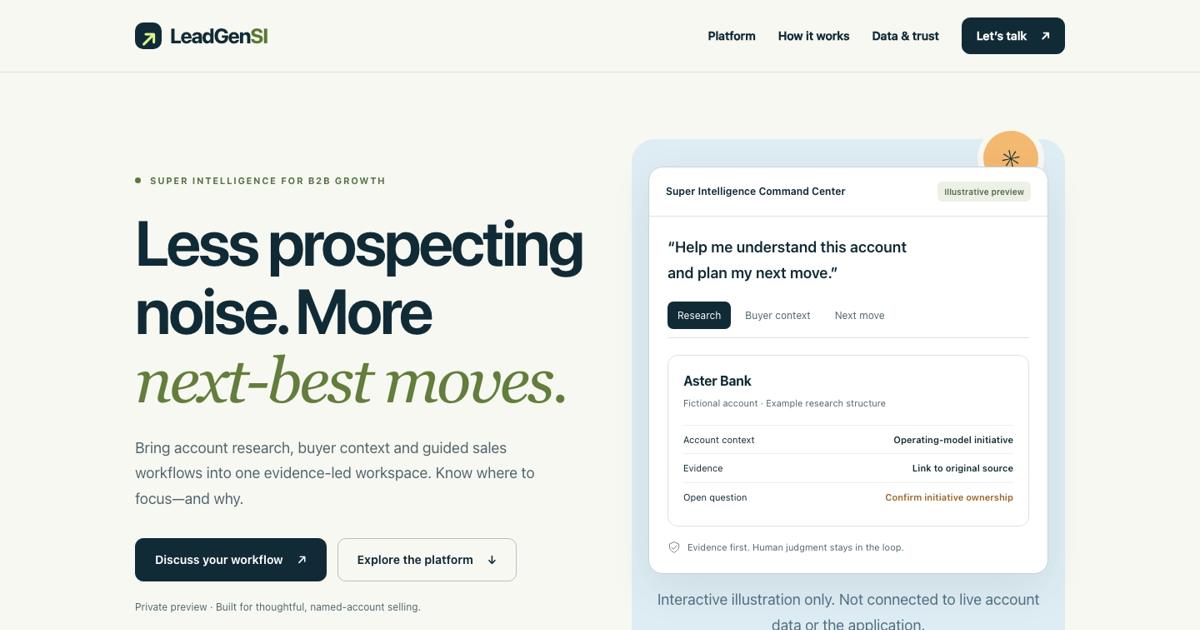
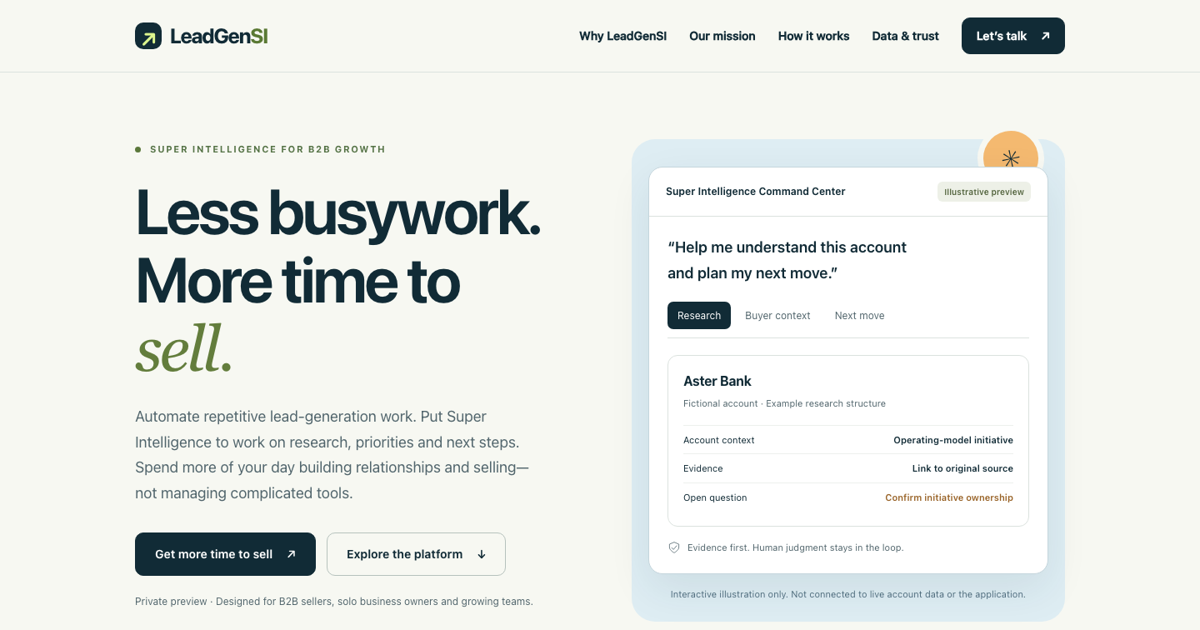
feat: center website on seller pain points, mission and values

diff --git a/index.html b/index.html
@@ -3,7 +3,7 @@
 <head>
 <meta charset="utf-8">
 <meta name="viewport" content="width=device-width,initial-scale=1">
-<meta name="description" content="LeadGenSI brings account research, buyer context and guided sales workflows into one evidence-led workspace. Super Intelligence for B2B growth.">
+<meta name="description" content="Automate repetitive lead-generation work, put Super Intelligence to work on selling, and get full-team leverage without complicated tools.">
 <meta name="theme-color" content="#112b36">
 <meta property="og:type" content="website">
 <link rel="canonical" href="https://cjwalsh22.github.io/leadgensi-website/">
@@ -13,12 +13,13 @@
 <meta property="og:image:height" content="630">
 <meta property="og:image:alt" content="LeadGenSI — Super Intelligence for B2B Growth product overview">
 <meta property="og:title" content="LeadGenSI — Super Intelligence for B2B Growth">
-<meta property="og:description" content="Know where to focus. Understand the buyer. Make your next move with evidence.">
+<meta property="og:description" content="Less busywork. Powerful Super Intelligence. More time to sell—with a simpler experience for any B2B seller.">
 <meta name="twitter:card" content="summary">
 <meta http-equiv="Content-Security-Policy" content="default-src 'none'; img-src 'self' data:; style-src 'unsafe-inline'; script-src 'sha256-vNd4mpZ85vo6gcTxOHxrZxz+LenrLUhy0onV7V+zaiw='; connect-src 'none'; base-uri 'none'; form-action 'none'">
 <title>LeadGenSI — Super Intelligence for B2B Growth</title>
 <style>
-:root{--ink:#112b36;--muted:#52666d;--paper:#f7f8f2;--white:#fff;--line:#dbe2de;--lime:#dcf58e;--blue:#deedf3;--orange:#f4b970;--radius:20px;--max:1180px}*{box-sizing:border-box}html{scroll-behavior:smooth;scroll-padding-top:100px}body{margin:0;background:var(--paper);color:var(--ink);font-family:Inter,-apple-system,BlinkMacSystemFont,"Segoe UI",sans-serif;line-height:1.6;-webkit-font-smoothing:antialiased}a{color:inherit}button{font:inherit;cursor:pointer}button,a{-webkit-tap-highlight-color:transparent}a:focus-visible,button:focus-visible,summary:focus-visible{outline:3px solid #237aa1;outline-offset:5px}h1,h2,h3,p{margin-top:0}h1,h2,h3{line-height:1.08;letter-spacing:-.04em}h1{font-size:clamp(45px,5.5vw,76px);font-weight:650;margin-bottom:25px}h2{font-size:clamp(34px,4vw,51px);font-weight:600;margin-bottom:22px}h3{font-size:23px;font-weight:600;letter-spacing:-.025em}p{color:var(--muted)}.wrap{max-width:var(--max);padding:0 32px;margin:auto}.skip{position:absolute;left:12px;top:-80px;background:var(--lime);padding:12px;z-index:10}.skip:focus{top:12px}.nav-shell{position:sticky;top:0;z-index:5;background:rgba(247,248,242,.97);border-bottom:1px solid var(--line)}.nav{display:flex;align-items:center;justify-content:space-between;min-height:86px;gap:28px}.brand{text-decoration:none;font-size:25px;font-weight:750;letter-spacing:-1.3px;display:inline-flex;align-items:center;gap:10px}.brand em{font-style:normal;color:#5a7933}.brand-mark{width:32px;height:32px;background:var(--ink);border-radius:10px;display:grid;place-items:center;color:var(--lime)}.nav-links{display:flex;gap:27px;align-items:center}.nav-links>a{text-decoration:none;font-size:14px;font-weight:550}.nav-links>a:hover{color:#587437}.nav-toggle{display:none;border:1px solid var(--line);background:transparent;padding:7px 13px;border-radius:9px}.btn{display:inline-flex;align-items:center;justify-content:center;gap:17px;padding:14px 23px;border:1px solid var(--ink);border-radius:10px;text-decoration:none;font-size:14px;font-weight:650;background:var(--ink);color:white;transition:transform .18s,background .18s}.btn:hover{transform:translateY(-2px);background:#224956}.btn.light{color:var(--ink);background:transparent;border-color:#b6c2bd}.btn.lime{background:var(--lime);color:var(--ink);border-color:var(--lime)}.nav .btn{padding:10px 17px}.hero{padding:80px 0 62px;display:grid;grid-template-columns:1.04fr 1fr;align-items:center;gap:55px}.eyebrow{font-size:11px;letter-spacing:.15em;font-weight:700;text-transform:uppercase;color:#557346;margin-bottom:24px;display:flex;gap:11px;align-items:center}.dot{height:7px;width:7px;background:#5b783b;border-radius:50%;display:inline-block}.hero p{font-size:18px;max-width:485px;line-height:1.7}.serif{font-family:Georgia,"Times New Roman",serif;font-style:italic;font-weight:450;color:#637d3c}.actions{display:flex;flex-wrap:wrap;gap:13px;margin:31px 0 21px}.fine{font-size:12px!important;line-height:1.6!important}.preview-shell{position:relative;background:var(--blue);border-radius:28px;padding:33px 20px 25px;min-width:0}.orbit{position:absolute;right:25px;top:-17px;background:var(--orange);width:80px;height:80px;border-radius:50%;display:grid;place-items:center;font-size:30px;transform:rotate(-12deg);border:7px solid var(--paper)}.workspace{position:relative;background:white;border:1px solid #c4d5dc;border-radius:17px;box-shadow:0 18px 50px #14364516;overflow:hidden}.workspace-top{padding:17px 20px;border-bottom:1px solid var(--line);display:flex;align-items:center;justify-content:space-between;font-size:12px;font-weight:650}.badge{font-size:10px;font-weight:600;padding:4px 8px;border-radius:6px;background:#edf0e7;color:#54653f;white-space:nowrap}.preview-body{padding:22px}.prompt{font-size:15px;font-weight:600;color:var(--ink);margin-bottom:19px;line-height:1.5}.tabs{display:flex;gap:5px;margin-bottom:20px;border-bottom:1px solid var(--line);padding-bottom:10px}.tab{border:0;background:transparent;padding:7px 12px;font-size:12px;border-radius:7px;color:var(--muted)}.tab[aria-selected=true]{background:var(--ink);color:white}.sample-card{border:1px solid var(--line);border-radius:12px;padding:18px;min-height:186px}.sample-title{font-size:16px;font-weight:700;letter-spacing:-.02em;margin-bottom:4px}.sample-sub{font-size:11px;color:var(--muted);margin-bottom:17px}.sample-row{display:flex;justify-content:space-between;gap:14px;padding:8px 0;border-top:1px solid #edf0ed;font-size:11px}.sample-row strong{font-weight:600;text-align:right}.sample-row .pending{color:#986226}.activity{display:flex;align-items:center;gap:8px;margin-top:16px;font-size:11px;color:var(--muted)}.activity svg{flex-shrink:0}.illustrative{font-size:10px;text-align:center;line-height:1.5;margin:16px 0 0;color:#537080}.promise-strip{display:flex;justify-content:space-between;gap:20px;flex-wrap:wrap;border-top:1px solid var(--line);border-bottom:1px solid var(--line);padding:22px 0;font-size:12px;font-weight:550}.promise-strip span{display:flex;gap:9px;align-items:center}.promise-strip b{color:#658743;font-size:17px}.section{padding:91px 0}.section-head{max-width:690px;margin-bottom:42px}.section-head>p{font-size:17px;max-width:620px}.cap-grid{display:grid;grid-template-columns:repeat(3,1fr);gap:19px}.cap{border:1px solid var(--line);background:#fff;padding:30px;border-radius:var(--radius)}.cap-icon{height:45px;width:45px;display:grid;place-items:center;border-radius:13px;background:var(--blue);font-size:21px;margin-bottom:28px}.cap:nth-child(2) .cap-icon{background:#edf3dd}.cap:nth-child(3) .cap-icon{background:#fae7d1}.cap p{font-size:14px;margin-bottom:0}.workflow-section{background:var(--ink);color:white}.workflow-section .eyebrow{color:var(--lime)}.workflow-section p{color:#b3c4ca}.workflow-grid{display:grid;grid-template-columns:repeat(4,1fr);gap:29px}.step{border-top:1px solid #4b6068;padding-top:22px}.step-number{font-size:12px;letter-spacing:.06em;color:var(--lime);margin-bottom:26px}.step h3{font-size:21px;letter-spacing:-.02em}.step p{font-size:14px}.workflow-note{border-top:1px solid #4b6068;padding-top:22px;margin-top:32px;margin-bottom:0;font-size:12px!important}.trust-grid{display:grid;grid-template-columns:1fr 1fr;gap:64px;align-items:start}.principles{padding:0;list-style:none;margin:0}.principles li{padding:18px 0;border-bottom:1px solid var(--line)}.principles li:first-child{padding-top:0}.principles strong{display:block;margin-bottom:5px;font-size:16px;letter-spacing:-.02em}.principles p{font-size:14px;margin:0}.modes{margin-top:28px;background:#eaf0e2;padding:21px 23px;border-radius:13px}.modes strong{font-size:13px;display:block;margin-bottom:7px}.modes p{font-size:12px;margin:0}.faq-section{padding-top:0}.faq-grid{display:grid;grid-template-columns:.8fr 1.2fr;gap:60px}details{border-bottom:1px solid var(--line);padding:19px 0}details:first-child{padding-top:0}summary{cursor:pointer;font-size:16px;font-weight:600;list-style:none;padding-right:26px;position:relative}summary::-webkit-details-marker{display:none}summary:after{content:'+';position:absolute;right:0;top:-3px;font-size:24px;font-weight:400}details[open] summary:after{content:'−'}details p{font-size:14px;margin:13px 26px 0 0}.contact{background:var(--blue);border-radius:25px;padding:47px 52px;display:flex;align-items:center;justify-content:space-between;gap:35px;margin-bottom:65px}.contact h2{font-size:38px;max-width:570px;margin-bottom:13px}.contact p{font-size:15px;max-width:590px;margin:0}.contact .btn{flex-shrink:0}.footer{border-top:1px solid var(--line);padding:29px 0}.footer-inner{display:flex;justify-content:space-between;align-items:center;gap:20px;flex-wrap:wrap}.footer .brand{font-size:20px}.footer-links{display:flex;align-items:center;gap:20px;font-size:12px;color:var(--muted)}.text-button{background:none;border:0;padding:0;color:inherit;text-decoration:underline;font-size:12px}.footer-note{font-size:11px;margin:16px 0 0;max-width:850px}.dialog{width:min(580px,calc(100% - 36px));border:1px solid var(--line);border-radius:20px;padding:33px;color:var(--ink);background:var(--paper);max-height:85vh;overflow:auto}.dialog::backdrop{background:#112b3699}.dialog h2{font-size:28px}.dialog p{font-size:14px}.dialog .btn{margin-top:9px}.sr-only{position:absolute;width:1px;height:1px;padding:0;margin:-1px;overflow:hidden;clip:rect(0,0,0,0);white-space:nowrap;border:0}[hidden]{display:none!important}
+:root{--ink:#112b36;--muted:#52666d;--paper:#f7f8f2;--white:#fff;--line:#dbe2de;--lime:#dcf58e;--blue:#deedf3;--orange:#f4b970;--radius:20px;--max:1180px}*{box-sizing:border-box}html{scroll-behavior:smooth;scroll-padding-top:100px}body{margin:0;background:var(--paper);color:var(--ink);font-family:Inter,-apple-system,BlinkMacSystemFont,"Segoe UI",sans-serif;line-height:1.6;-webkit-font-smoothing:antialiased}a{color:inherit}button{font:inherit;cursor:pointer}button,a{-webkit-tap-highlight-color:transparent}a:focus-visible,button:focus-visible,summary:focus-visible{outline:3px solid #237aa1;outline-offset:5px}h1,h2,h3,p{margin-top:0}h1,h2,h3{line-height:1.08;letter-spacing:-.04em}h1{font-size:clamp(45px,5.5vw,76px);font-weight:650;margin-bottom:25px}h2{font-size:clamp(34px,4vw,51px);font-weight:600;margin-bottom:22px}h3{font-size:23px;font-weight:600;letter-spacing:-.025em}p{color:var(--muted)}.wrap{max-width:var(--max);padding:0 32px;margin:auto}.skip{position:absolute;left:12px;top:-80px;background:var(--lime);padding:12px;z-index:10}.skip:focus{top:12px}.nav-shell{position:sticky;top:0;z-index:5;background:rgba(247,248,242,.97);border-bottom:1px solid var(--line)}.nav{display:flex;align-items:center;justify-content:space-between;min-height:86px;gap:28px}.brand{text-decoration:none;font-size:25px;font-weight:750;letter-spacing:-1.3px;display:inline-flex;align-items:center;gap:10px}.brand em{font-style:normal;color:#5a7933}.brand-mark{width:32px;height:32px;background:var(--ink);border-radius:10px;display:grid;place-items:center;color:var(--lime)}.nav-links{display:flex;gap:27px;align-items:center}.nav-links>a{text-decoration:none;font-size:14px;font-weight:550}.nav-links>a:hover{color:#587437}.nav-toggle{display:none;border:1px solid var(--line);background:transparent;padding:7px 13px;border-radius:9px}.btn{display:inline-flex;align-items:center;justify-content:center;gap:17px;padding:14px 23px;border:1px solid var(--ink);border-radius:10px;text-decoration:none;font-size:14px;font-weight:650;background:var(--ink);color:white;transition:transform .18s,background .18s}.btn:hover{transform:translateY(-2px);background:#224956}.btn.light{color:var(--ink);background:transparent;border-color:#b6c2bd}.btn.lime{background:var(--lime);color:var(--ink);border-color:var(--lime)}.nav .btn{padding:10px 17px}.hero{padding:80px 0 62px;display:grid;grid-template-columns:1.04fr 1fr;align-items:center;gap:55px}.eyebrow{font-size:11px;letter-spacing:.15em;font-weight:700;text-transform:uppercase;color:#557346;margin-bottom:24px;display:flex;gap:11px;align-items:center}.dot{height:7px;width:7px;background:#5b783b;border-radius:50%;display:inline-block}.hero p{font-size:18px;max-width:485px;line-height:1.7}.serif{font-family:Georgia,"Times New Roman",serif;font-style:italic;font-weight:450;color:#637d3c}.actions{display:flex;flex-wrap:wrap;gap:13px;margin:31px 0 21px}.fine{font-size:12px!important;line-height:1.6!important}.preview-shell{position:relative;background:var(--blue);border-radius:28px;padding:33px 20px 25px;min-width:0}.orbit{position:absolute;right:25px;top:-17px;background:var(--orange);width:80px;height:80px;border-radius:50%;display:grid;place-items:center;font-size:30px;transform:rotate(-12deg);border:7px solid var(--paper)}.workspace{position:relative;background:white;border:1px solid #c4d5dc;border-radius:17px;box-shadow:0 18px 50px #14364516;overflow:hidden}.workspace-top{padding:17px 20px;border-bottom:1px solid var(--line);display:flex;align-items:center;justify-content:space-between;font-size:12px;font-weight:650}.badge{font-size:10px;font-weight:600;padding:4px 8px;border-radius:6px;background:#edf0e7;color:#54653f;white-space:nowrap}.preview-body{padding:22px}.prompt{font-size:15px;font-weight:600;color:var(--ink);margin-bottom:19px;line-height:1.5}.tabs{display:flex;gap:5px;margin-bottom:20px;border-bottom:1px solid var(--line);padding-bottom:10px}.tab{border:0;background:transparent;padding:7px 12px;font-size:12px;border-radius:7px;color:var(--muted)}.tab[aria-selected=true]{background:var(--ink);color:white}.sample-card{border:1px solid var(--line);border-radius:12px;padding:18px;min-height:186px}.sample-title{font-size:16px;font-weight:700;letter-spacing:-.02em;margin-bottom:4px}.sample-sub{font-size:11px;color:var(--muted);margin-bottom:17px}.sample-row{display:flex;justify-content:space-between;gap:14px;padding:8px 0;border-top:1px solid #edf0ed;font-size:11px}.sample-row strong{font-weight:600;text-align:right}.sample-row .pending{color:#986226}.activity{display:flex;align-items:center;gap:8px;margin-top:16px;font-size:11px;color:var(--muted)}.activity svg{flex-shrink:0}.hero .illustrative{font-size:11px;text-align:center;line-height:1.5;margin:16px 0 0;color:#537080}.promise-strip{display:flex;justify-content:space-between;gap:20px;flex-wrap:wrap;border-top:1px solid var(--line);border-bottom:1px solid var(--line);padding:22px 0;font-size:12px;font-weight:550}.promise-strip span{display:flex;gap:9px;align-items:center}.promise-strip b{color:#658743;font-size:17px}.section{padding:91px 0}.section-head{max-width:690px;margin-bottom:42px}.section-head>p{font-size:17px;max-width:620px}.cap-grid{display:grid;grid-template-columns:repeat(3,1fr);gap:19px}.cap{border:1px solid var(--line);background:#fff;padding:30px;border-radius:var(--radius)}.cap-icon{height:45px;width:45px;display:grid;place-items:center;border-radius:13px;background:var(--blue);font-size:21px;margin-bottom:28px}.cap:nth-child(2) .cap-icon{background:#edf3dd}.cap:nth-child(3) .cap-icon{background:#fae7d1}.cap p{font-size:14px;margin-bottom:0}.workflow-section{background:var(--ink);color:white}.workflow-section .eyebrow{color:var(--lime)}.workflow-section p{color:#b3c4ca}.workflow-grid{display:grid;grid-template-columns:repeat(4,1fr);gap:29px}.step{border-top:1px solid #4b6068;padding-top:22px}.step-number{font-size:12px;letter-spacing:.06em;color:var(--lime);margin-bottom:26px}.step h3{font-size:21px;letter-spacing:-.02em}.step p{font-size:14px}.workflow-note{border-top:1px solid #4b6068;padding-top:22px;margin-top:32px;margin-bottom:0;font-size:12px!important}.trust-grid{display:grid;grid-template-columns:1fr 1fr;gap:64px;align-items:start}.principles{padding:0;list-style:none;margin:0}.principles li{padding:18px 0;border-bottom:1px solid var(--line)}.principles li:first-child{padding-top:0}.principles strong{display:block;margin-bottom:5px;font-size:16px;letter-spacing:-.02em}.principles p{font-size:14px;margin:0}.modes{margin-top:28px;background:#eaf0e2;padding:21px 23px;border-radius:13px}.modes strong{font-size:13px;display:block;margin-bottom:7px}.modes p{font-size:12px;margin:0}.faq-section{padding-top:0}.faq-grid{display:grid;grid-template-columns:.8fr 1.2fr;gap:60px}details{border-bottom:1px solid var(--line);padding:19px 0}details:first-child{padding-top:0}summary{cursor:pointer;font-size:16px;font-weight:600;list-style:none;padding-right:26px;position:relative}summary::-webkit-details-marker{display:none}summary:after{content:'+';position:absolute;right:0;top:-3px;font-size:24px;font-weight:400}details[open] summary:after{content:'−'}details p{font-size:14px;margin:13px 26px 0 0}.contact{background:var(--blue);border-radius:25px;padding:47px 52px;display:flex;align-items:center;justify-content:space-between;gap:35px;margin-bottom:65px}.contact h2{font-size:38px;max-width:570px;margin-bottom:13px}.contact p{font-size:15px;max-width:590px;margin:0}.contact .btn{flex-shrink:0}.footer{border-top:1px solid var(--line);padding:29px 0}.footer-inner{display:flex;justify-content:space-between;align-items:center;gap:20px;flex-wrap:wrap}.footer .brand{font-size:20px}.footer-links{display:flex;align-items:center;gap:20px;font-size:12px;color:var(--muted)}.text-button{background:none;border:0;padding:0;color:inherit;text-decoration:underline;font-size:12px}.footer-note{font-size:11px;margin:16px 0 0;max-width:850px}.dialog{width:min(580px,calc(100% - 36px));border:1px solid var(--line);border-radius:20px;padding:33px;color:var(--ink);background:var(--paper);max-height:85vh;overflow:auto}.dialog::backdrop{background:#112b3699}.dialog h2{font-size:28px}.dialog p{font-size:14px}.dialog .btn{margin-top:9px}.sr-only{position:absolute;width:1px;height:1px;padding:0;margin:-1px;overflow:hidden;clip:rect(0,0,0,0);white-space:nowrap;border:0}[hidden]{display:none!important}
+@media(max-width:900px){.nav{min-height:73px}.nav-toggle{display:block}.nav-links{display:none;position:absolute;left:0;right:0;top:73px;background:var(--paper);padding:20px 22px;border-bottom:1px solid var(--line);flex-direction:column;align-items:stretch;gap:20px}.nav-links.open{display:flex}}
 @media(max-width:1000px){.hero{gap:30px}.workflow-grid{grid-template-columns:repeat(2,1fr)}.contact{padding:35px}.cap{padding:24px}.trust-grid{gap:35px}}
 @media(max-width:760px){.wrap{padding:0 22px}.nav{min-height:73px}.nav-toggle{display:block}.nav-links{display:none;position:absolute;left:0;right:0;top:73px;background:var(--paper);padding:20px 22px;border-bottom:1px solid var(--line);flex-direction:column;align-items:stretch;gap:20px}.nav-links.open{display:flex}.hero{grid-template-columns:1fr;padding:47px 0 35px;gap:38px}.hero h1{font-size:clamp(45px,9vw,65px);max-width:570px}.hero p{font-size:17px}.preview-shell{padding:28px 17px 21px}.section{padding:61px 0}.cap-grid{grid-template-columns:1fr}.cap{padding:25px}.cap-icon{margin-bottom:20px}.trust-grid,.faq-grid{grid-template-columns:1fr;gap:27px}.faq-section{padding-top:0}.contact{flex-direction:column;align-items:flex-start;padding:31px 25px;margin-bottom:40px}.contact h2{font-size:32px}.promise-strip{gap:16px;font-size:11px}.footer-inner{align-items:flex-start}.footer-links{flex-wrap:wrap;gap:15px}.workspace-top{padding:15px}.preview-body{padding:17px}.sample-row{font-size:11px}.section-head{margin-bottom:29px}}
 @media(max-width:380px){.workflow-grid{grid-template-columns:1fr}.hero h1{font-size:42px}.sample-row{flex-direction:column;gap:1px}.sample-row strong{text-align:left}.brand{font-size:23px}}
@@ -27,16 +28,17 @@
 </head>
 <body>
 <a class="skip" href="#main">Skip to content</a>
-<header class="nav-shell"><nav class="nav wrap" aria-label="Main navigation"><a class="brand" href="#" aria-label="LeadGenSI home"><span class="brand-mark" aria-hidden="true">↗</span><span>LeadGen<em>SI</em></span></a><button class="nav-toggle" aria-expanded="false" aria-controls="navigation">Menu</button><div id="navigation" class="nav-links"><a href="#platform">Platform</a><a href="#workflow">How it works</a><a href="#trust">Data &amp; trust</a><a href="#contact" class="btn">Let’s talk <span aria-hidden="true">↗</span></a></div></nav></header>
+<header class="nav-shell"><nav class="nav wrap" aria-label="Main navigation"><a class="brand" href="#" aria-label="LeadGenSI home"><span class="brand-mark" aria-hidden="true">↗</span><span>LeadGen<em>SI</em></span></a><button class="nav-toggle" aria-expanded="false" aria-controls="navigation">Menu</button><div id="navigation" class="nav-links"><a href="#platform">Why LeadGenSI</a><a href="#mission">Our mission</a><a href="#workflow">How it works</a><a href="#trust">Data &amp; trust</a><a href="#contact" class="btn">Let’s talk <span aria-hidden="true">↗</span></a></div></nav></header>
 <main id="main">
-<div class="wrap"><section class="hero" aria-labelledby="hero-title"><div><div class="eyebrow"><span class="dot"></span> Super Intelligence for B2B growth</div><h1 id="hero-title">Less prospecting<br>noise. More<br><span class="serif">next-best moves.</span></h1><p>Bring account research, buyer context and guided sales workflows into one evidence-led workspace. Know where to focus—and why.</p><div class="actions"><a class="btn" href="#contact">Discuss your workflow <span aria-hidden="true">↗</span></a><a class="btn light" href="#platform">Explore the platform <span aria-hidden="true">↓</span></a></div><p class="fine">Private preview · Built for thoughtful, named-account selling.</p></div>
+<div class="wrap"><section class="hero" aria-labelledby="hero-title"><div><div class="eyebrow"><span class="dot"></span> Super Intelligence for B2B growth</div><h1 id="hero-title">Less busywork.<br>More time to<br><span class="serif">sell.</span></h1><p>Automate repetitive lead-generation work. Put Super Intelligence to work on research, priorities and next steps. Spend more of your day building relationships and selling—not managing complicated tools.</p><div class="actions"><a class="btn" href="#contact">Get more time to sell <span aria-hidden="true">↗</span></a><a class="btn light" href="#platform">Explore the platform <span aria-hidden="true">↓</span></a></div><p class="fine">Private preview · Designed for B2B sellers, solo business owners and growing teams.</p></div>
 <div class="preview-shell"><div class="orbit" aria-hidden="true">✳</div><div class="workspace"><div class="workspace-top"><span>Super Intelligence Command Center</span><span class="badge">Illustrative preview</span></div><div class="preview-body"><p class="prompt">“Help me understand this account<br>and plan my next move.”</p><div class="tabs" role="tablist" aria-label="Illustrative workflow"><button class="tab" role="tab" id="tab-research" aria-controls="panel-research" aria-selected="true" tabindex="0">Research</button><button class="tab" role="tab" id="tab-buyers" aria-controls="panel-buyers" aria-selected="false" tabindex="-1">Buyer context</button><button class="tab" role="tab" id="tab-action" aria-controls="panel-action" aria-selected="false" tabindex="-1">Next move</button></div><div id="panel-research" class="sample-card" role="tabpanel" aria-labelledby="tab-research"><div class="sample-title">Aster Bank</div><div class="sample-sub">Fictional account · Example research structure</div><div class="sample-row"><span>Account context</span><strong>Operating-model initiative</strong></div><div class="sample-row"><span>Evidence</span><strong>Link to original source</strong></div><div class="sample-row"><span>Open question</span><strong class="pending">Confirm initiative ownership</strong></div></div><div id="panel-buyers" class="sample-card" role="tabpanel" aria-labelledby="tab-buyers" hidden><div class="sample-title">Understand the buying group</div><div class="sample-sub">Illustrative roles—not discovered contacts</div><div class="sample-row"><span>Potential stakeholder</span><strong>Operations leadership</strong></div><div class="sample-row"><span>Current employment</span><strong class="pending">Needs source confirmation</strong></div><div class="sample-row"><span>Email verification</span><strong class="pending">Not established</strong></div></div><div id="panel-action" class="sample-card" role="tabpanel" aria-labelledby="tab-action" hidden><div class="sample-title">Prepare a relevant conversation</div><div class="sample-sub">Illustrative planning—not an executed campaign</div><div class="sample-row"><span>Next step</span><strong>Review the account brief</strong></div><div class="sample-row"><span>Message basis</span><strong>Confirmed account evidence</strong></div><div class="sample-row"><span>External outreach</span><strong class="pending">Requires human approval</strong></div></div><div class="activity"><svg width="16" height="16" viewBox="0 0 20 20" fill="none" aria-hidden="true"><path d="M10 2 3 5v5c0 4 7 8 7 8s7-4 7-8V5l-7-3Z" stroke="currentColor"/><path d="m6 10 3 3 5-6" stroke="currentColor"/></svg>Evidence first. Human judgment stays in the loop.</div></div></div><p class="illustrative">Interactive illustration only. Not connected to live account data or the application.</p></div></section>
-<div class="promise-strip" aria-label="Product principles"><span><b aria-hidden="true">↗</b> Account-centered, not list-centered</span><span><b aria-hidden="true">↗</b> Source-aware research</span><span><b aria-hidden="true">↗</b> Deliberate actions, not blind automation</span></div></div>
-<section id="platform" class="section wrap"><div class="section-head"><div class="eyebrow">A connected way to sell</div><h2>Your context.<br>Your buyers. Your next move.</h2><p>LeadGenSI is designed to connect the work that usually lives across browser tabs, spreadsheets and disconnected sales tools.</p></div><div class="cap-grid"><article class="cap"><div class="cap-icon" aria-hidden="true">◎</div><h3>Account intelligence</h3><p>Organize target accounts, research relevant signals and build a clearer picture of business priorities. Keep sources alongside the findings that inform your decisions.</p></article><article class="cap"><div class="cap-icon" aria-hidden="true">⌘</div><h3>Buyer context</h3><p>Connect people to accounts and roles. Separate a sourced identity from confirmed employment, persona relevance and email verification—so uncertainty doesn’t disappear in a score.</p></article><article class="cap"><div class="cap-icon" aria-hidden="true">↗</div><h3>Guided execution</h3><p>Use the Super Intelligence Command Center to explore accounts, prepare briefs and coordinate supported workflows. Keep consequential actions and outreach behind approval.</p></article></div></section>
-<section id="workflow" class="workflow-section"><div class="wrap section"><div class="section-head"><div class="eyebrow">From question to a considered action</div><h2>A workflow, not another<br>pile of leads.</h2><p>Start with a business question. Build the evidence and buyer context. Then decide what deserves action.</p></div><div class="workflow-grid"><article class="step"><div class="step-number">01 / FOCUS</div><h3>Choose the accounts</h3><p>Start with your target market and named accounts—not an indiscriminate contact download.</p></article><article class="step"><div class="step-number">02 / UNDERSTAND</div><h3>Ground the research</h3><p>Bring together relevant account information with sources, gaps and confidence made visible.</p></article><article class="step"><div class="step-number">03 / CONNECT</div><h3>Build buyer context</h3><p>Identify relevant roles. Resolve contact gaps through permitted research and authorized data sources.</p></article><article class="step"><div class="step-number">04 / ACT</div><h3>Prepare the next move</h3><p>Review the brief, message and proposed workflow. Approve external actions before execution.</p></article></div><p class="workflow-note">Private-preview availability varies by configuration. Research findings are not guarantees of buyer intent, verified contact details or sales outcomes.</p></div></section>
+<div class="promise-strip" aria-label="Product principles"><span><b aria-hidden="true">↗</b> Less repetitive work</span><span><b aria-hidden="true">↗</b> Super Intelligence put to work</span><span><b aria-hidden="true">↗</b> Simple by design</span></div></div>
+<section id="platform" class="section wrap"><div class="section-head"><div class="eyebrow">Less friction. More selling.</div><h2>Your day should be about buyers.<br>Not busywork.</h2><p>Too much of lead generation is repetitive work, disconnected information and tools that take too long to learn. LeadGenSI is being built to change that.</p></div><div class="cap-grid"><article class="cap"><div class="cap-icon" aria-hidden="true">↻</div><h3>Stop doing the same work twice.</h3><p>Research prep. Organizing records. Pulling together account context. Coordinating the next step. Automate the repetitive, supported parts of lead generation so your time goes toward conversations and relationships.</p></article><article class="cap"><div class="cap-icon" aria-hidden="true">✳</div><h3>Turn information into an advantage.</h3><p>Put Super Intelligence to work on the questions that matter: who to focus on, what matters to them and how to prepare a relevant approach. Aim for useful direction—not another pile of data to decipher.</p></article><article class="cap"><div class="cap-icon" aria-hidden="true">↗</div><h3>Powerful shouldn’t mean complicated.</h3><p>Use plain language, guided workflows and clear next steps. Our goal is to make powerful lead generation easy for any B2B seller—without learning AI models, configuring complex tools or becoming a sales-tech expert.</p></article></div></section>
+<section id="mission" class="section wrap" aria-labelledby="mission-title"><div class="trust-grid"><div><div class="eyebrow">Our mission &amp; values</div><h2 id="mission-title">A full-team advantage.<br>Without the complexity.</h2><p>Our mission is to give every B2B seller the leverage of a full sales team—whether you’re a non-technical business owner, an independent seller or part of a growing team.</p><p>Take the mundane work off your plate. Make advanced intelligence genuinely useful. Give you more time for the human side of selling: understanding customers, building trust and moving opportunities forward.</p><div class="modes"><strong>The product test we come back to</strong><p>Could a seller with no sales-tech expertise understand what to do next? If not, we still have work to do.</p></div></div><ul class="principles"><li><strong>Automate with purpose.</strong><p>Automate the repeatable work that can be done responsibly. Keep judgment, relationships and consequential decisions with the seller.</p></li><li><strong>Make intelligence earn its place.</strong><p>Pursue best-in-class Super Intelligence, judged by useful research, clear recommendations and better-prepared sellers—not AI hype.</p></li><li><strong>Make powerful feel simple.</strong><p>Put ease of use first: straightforward language, helpful defaults and obvious next steps. Complexity belongs behind the scenes, not on your to-do list.</p></li><li><strong>Earn trust. Don’t assume it.</strong><p>Keep evidence and uncertainty visible. Respect data permissions and make external actions deliberate. Better automation should mean more confidence, not less control.</p></li></ul></div></section>
+<section id="workflow" class="workflow-section"><div class="wrap section"><div class="section-head"><div class="eyebrow">From question to a considered action</div><h2>A workflow, not another<br>pile of leads.</h2><p>Tell the Command Center what you want to achieve in plain language. Let supported workflows help with the preparation, then review the next move.</p></div><div class="workflow-grid"><article class="step"><div class="step-number">01 / FOCUS</div><h3>Choose the accounts</h3><p>Start with your target market and named accounts—not an indiscriminate contact download.</p></article><article class="step"><div class="step-number">02 / UNDERSTAND</div><h3>Ground the research</h3><p>Bring together relevant account information with sources, gaps and confidence made visible.</p></article><article class="step"><div class="step-number">03 / CONNECT</div><h3>Build buyer context</h3><p>Identify relevant roles. Resolve contact gaps through permitted research and authorized data sources.</p></article><article class="step"><div class="step-number">04 / ACT</div><h3>Prepare the next move</h3><p>Review the brief, message and proposed workflow. Approve external actions before execution.</p></article></div><p class="workflow-note">Private-preview availability varies by configuration. Research findings are not guarantees of buyer intent, verified contact details or sales outcomes.</p></div></section>
 <section id="trust" class="section wrap"><div class="trust-grid"><div><div class="eyebrow">Built around evidence and permission</div><h2>Super Intelligence.<br>Not super assumptions.</h2><p>Good sales intelligence needs more than an answer. It needs a source, a clear account context and an honest view of what remains unknown.</p><div class="modes"><strong>Our contact-data approach</strong><p>Permitted public professional sources first. Customer-authorized records and optional customer-connected providers next. Platform-managed enrichment only after application-specific permission and commercial requirements are satisfied.</p></div></div><ul class="principles"><li><strong>Source and status stay visible</strong><p>A named person is not automatically a current employee, the right buyer or a verified mailbox. Those are separate questions.</p></li><li><strong>Customer access is not a blanket license</strong><p>Provider authentication, endpoint entitlement, permitted use and available credits must be checked independently.</p></li><li><strong>Workspaces remain authenticated</strong><p>The application is separate from this public product website. It requires authentication; this site exposes no customer accounts, contacts or workspace data.</p></li><li><strong>External actions need approval</strong><p>The product’s direction is guided automation with human control—not autonomous, indiscriminate outreach.</p></li></ul></div></section>
-<section class="section faq-section wrap"><div class="faq-grid"><div><div class="eyebrow">Before we talk</div><h2>A few practical<br>questions.</h2></div><div><details><summary>Who is LeadGenSI for?</summary><p>B2B sellers and teams pursuing named accounts and complex buying groups. Its initial product focus includes financial services and enterprise technology sales.</p></details><details><summary>Is the platform publicly available?</summary><p>LeadGenSI is in private preview. Contact us to discuss your workflow and current availability. This website is a product overview, not an open signup or the authenticated application.</p></details><details><summary>Does it include a ready-made contact database?</summary><p>Not by default. The approach combines permitted research and customer-authorized sources. Optional provider-backed email discovery and validation depend on permitted use, endpoint access and budget. Managed data licensing is under review.</p></details><details><summary>Are Hunter or other providers approved partners?</summary><p>We are evaluating provider integrations. Hunter has indicated support for customer-connected accounts under its standard terms; our managed use remains subject to product review and written consent. We do not claim a certified partnership or generally available managed enrichment.</p></details><details><summary>Can it send outreach without my review?</summary><p>The intended workflow keeps external outreach behind explicit approval. Research, drafts and recommendations are not the same as permission to send.</p></details></div></div></section>
-<section id="contact" class="wrap"><div class="contact"><div><div class="eyebrow">Let’s make it relevant</div><h2>Bring us your<br>sales workflow.</h2><p>Exploring a customer use case or an integration? Get in touch to discuss the product, a walkthrough or permitted data use.</p></div><a class="btn" href="mailto:cjwalsh22@gmail.com?subject=LeadGenSI%20%E2%80%94%20product%20inquiry">Email Cameron <span aria-hidden="true">↗</span></a></div></section>
+
+<section id="contact" class="wrap"><div class="contact"><div><div class="eyebrow">Let’s make it relevant</div><h2>Spend less time preparing.<br>More time connecting.</h2><p>Tell us where lead generation slows you down. Let’s explore how LeadGenSI could simplify your workflow and give you more time to sell.</p></div><a class="btn" href="mailto:cjwalsh22@gmail.com?subject=LeadGenSI%20%E2%80%94%20product%20inquiry">Email Cameron <span aria-hidden="true">↗</span></a></div></section>
 </main>
 <footer class="footer"><div class="wrap"><div class="footer-inner"><a class="brand" href="#">LeadGen<em>SI</em></a><div class="footer-links"><span>Super Intelligence for B2B Growth</span><button class="text-button" id="privacy-open" type="button">Website privacy</button></div></div><p class="footer-note">Private preview. Illustrations are examples, not live customer data. No provider affiliation, verified coverage or sales performance is implied.</p></div></footer>
 <dialog id="privacy-dialog" class="dialog" aria-labelledby="privacy-title"><h2 id="privacy-title">Website privacy</h2><p>This product-overview website contains no analytics scripts, marketing cookies or submission forms. It does not connect to the application database or provider APIs.</p><p>The email link opens your email client. Information you choose to send is used to respond to your inquiry. Website hosting and email providers may process technical logs or messages under their own policies.</p><p>This notice describes this website only. Application data processing and any provider-backed enrichment require separate applicable terms and privacy information.</p><button class="btn" id="privacy-close" type="button">Close</button></dialog>

diff --git a/README.md b/README.md
@@ -2,6 +2,10 @@
 
 Super Intelligence for B2B Growth.
 
+Our mission is to give every B2B seller the leverage of a full sales team—without the complexity. Automate repetitive lead-generation work, make advanced intelligence useful, and make powerful workflows simple to use.
+
+Product values: purposeful automation, useful intelligence, effortless usability and evidence-led trust.
+
 This repository contains the standalone public product website, not the authenticated application. Product previews are explicitly illustrative; managed provider access remains subject to written application-specific approval.
 
 The site uses no external resources or analytics scripts. `index.html` has no build step and can be hosted as static HTML. An inline-script content-security-policy hash must be regenerated if JavaScript changes.
